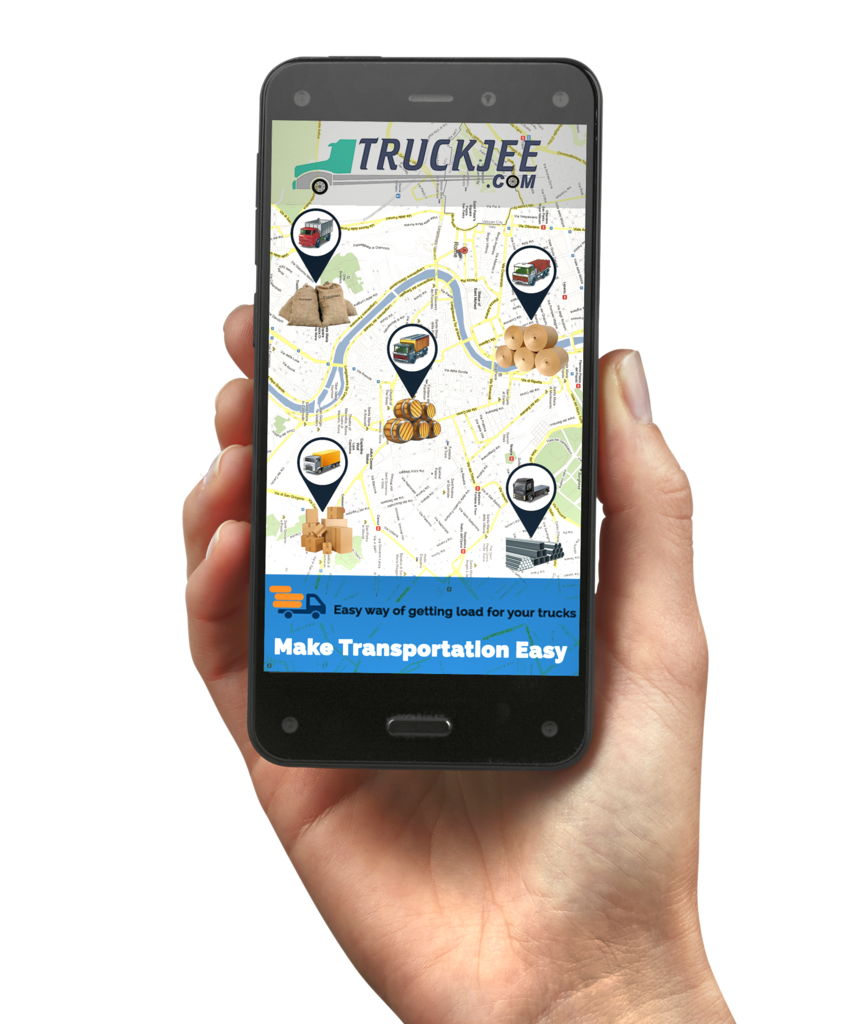
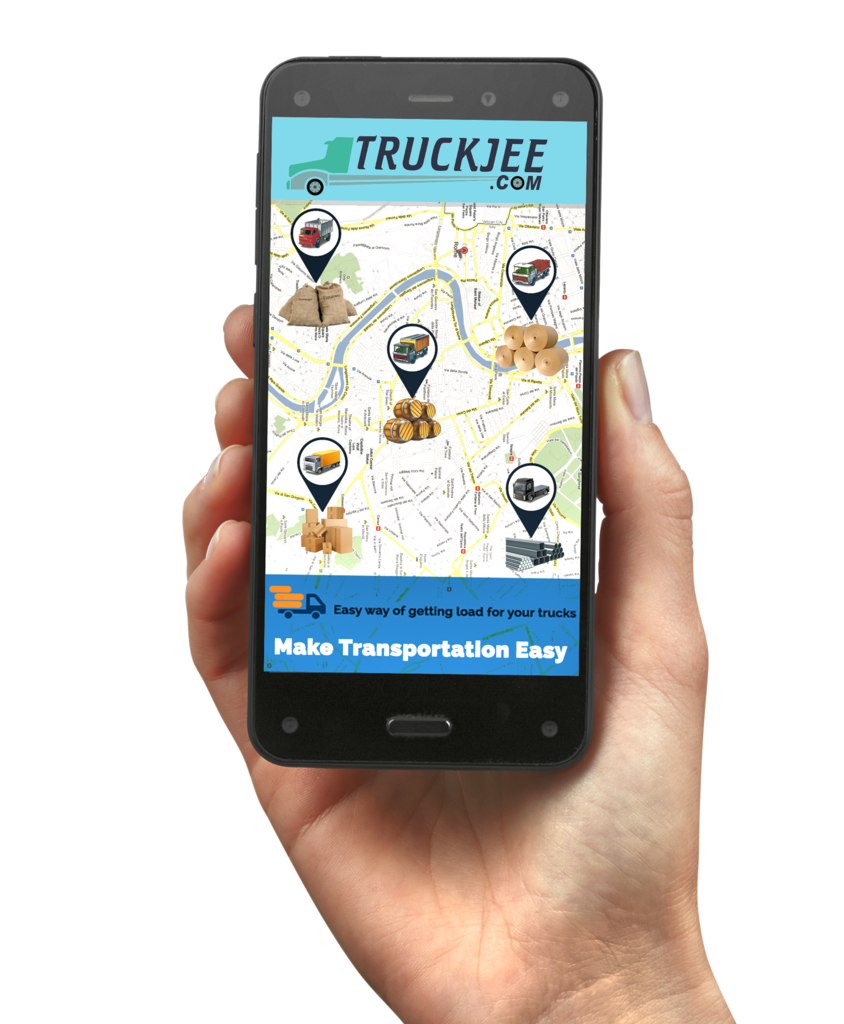
changed masterslider

Changed region(s): [[0.3081, 0.0938, 0.7085, 0.2188]]

diff --git a/resources/views/home.blade.php b/resources/views/home.blade.php
@@ -6,23 +6,23 @@
         <!-- slide -->
         <div class="ms-slide">
             <!-- slide background -->
-            <img src="masterslider/blank.gif" data-src="{{ url('img/slider/slider02.jpg') }}" alt="background image"/>
+            <img src="masterslider/blank.gif" data-src="{{ url('img/slider/slide01.jpg') }}" alt="background image"/>
             <img class="ms-layer" src="masterslider/blank.gif" data-src="{{ url('img/mobile.png') }}" alt=""
-                 style="left: 700px; top: 100px; max-height: 500px;max-width: 500px;"
+                 style="left: 700px; top:100px; max-height: 500px;max-width: 500px;"
                  data-type="image"
                  data-delay="1000"
                  data-effect="right(short)"
             />
 
             <img class="ms-layer" src="masterslider/blank.gif" data-src="img/slider/slider-line.jpg" alt=""
-                 style="left: 0; top: 170px;"
+                 style="left: 80px; top: 190px;"
                  data-type="image"
                  data-effect="left(short)"
                  data-delay="0"
                     />
 
             <h2 class="ms-layer pi-caption01"
-                style="left: 0; top: 195px;"
+                style="left: 80px; top: 230px;"
                 data-type="text"
                 data-effect="left(short)"
                 data-delay="300"
@@ -31,7 +31,7 @@
             </h2>
 
             <h2 class="ms-layer pi-caption01"
-                style="left: 0; top: 260px;"
+                style="left: 80px; top: 290px;"
                 data-type="text"
                 data-effect="left(short)"
                 data-delay="600"
@@ -39,7 +39,7 @@
                 Online.
             </h2>
             <p class="ms-layer pi-text"
-               style="font-size:20px; line-height: 30px; left: 0px; top: 430px;"
+               style="font-size:20px; line-height: 30px; left: 80px; top: 400px;"
                data-type="text"
                data-delay="1600"
             >
